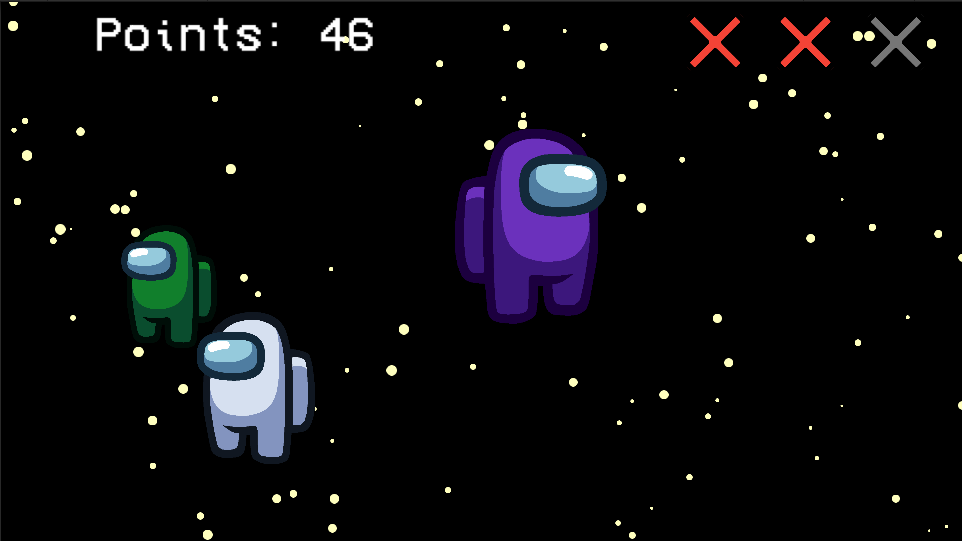
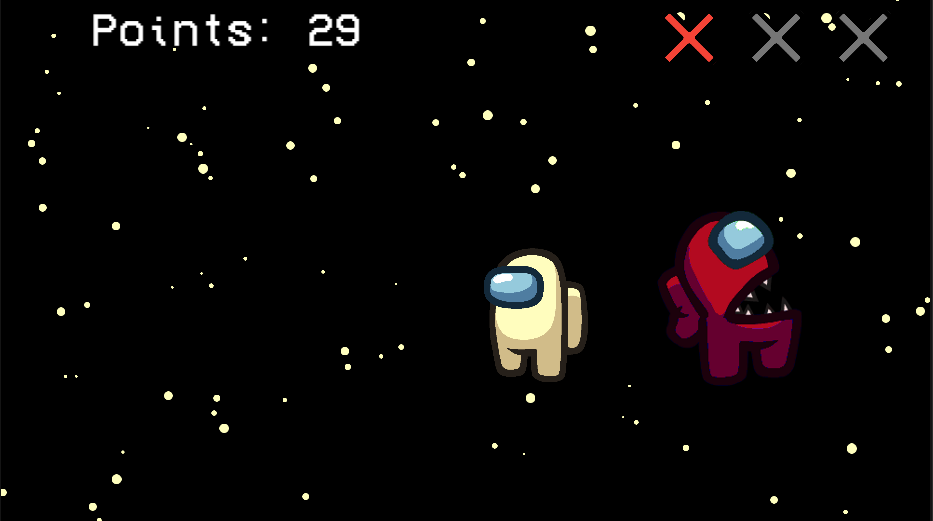
Обновлено описание

diff --git a/Homework1/README.md b/Homework1/README.md
@@ -1,15 +1,28 @@
-# Домашнее задание 1
+# Домашнее задание (UI и игра на время)
 ## Игра-кликер
 ### Главное меню:
+
+В главном меню были добавлены кнопки для начала игры в аркадном режиме (игра на время), настроек и выхода из игры.
+Рядом с кнопками начала игры отображается максимальное количество набранных очков в соответсвующих режимах.
+
 ![menu](Screenshots/menu.png)
 
-В главном меню отображается максимальное набранное количество очков, а также находится кнопка чтобы начать игру.
+### Окно настроек:
 
-### Игра:
-![gameplay1](Screenshots/gameplay1.png)
+На экране настроек можно ввести новое имя пользователя и сбросить прогресс. При нажатии кнопки Apply новое имя пользователя сохраняется.
+
+![settings](Screenshots/settings.png)
+
+### Классический режим:
 
 На экране игры отображается количество набранных очков, а также счетчик пропущенных амогусов в виде трех крестиков. Если игрок набирает 3 крестика, то игра заканчивается. При наборе колчества очков кратных 100, один крестик обнуляется.
 Также на экране появляются амогусы случайного цвета. На протяжении игры скорость с которой появляются новые амогусы возрастает. При появлении амогус начинает расти и через какое-то время исчезает.
 С маленькой вероятностью на экране может появиться импостер (злой амогус). При нажатии на него игра сразу завершается.
 
-![gameplay2](Screenshots/gameplay2.png)
+![gameplay1](Screenshots/gameplay1.png)
+
+### Аркадный режим
+
+В аркадном режиме игра длится определенное время. В данном режиме нет жизней, поэтому пропуск амогусов ничего не делает. Нажатие на импостеров отнимает 10 очков. Также может появиться бонусный амогус, при нажатии на которого к таймеру добавляется 3 секунды. Они растут и исчезают быстрее обычных.
+
+![arcade1](Screenshots/arcade1.png)
